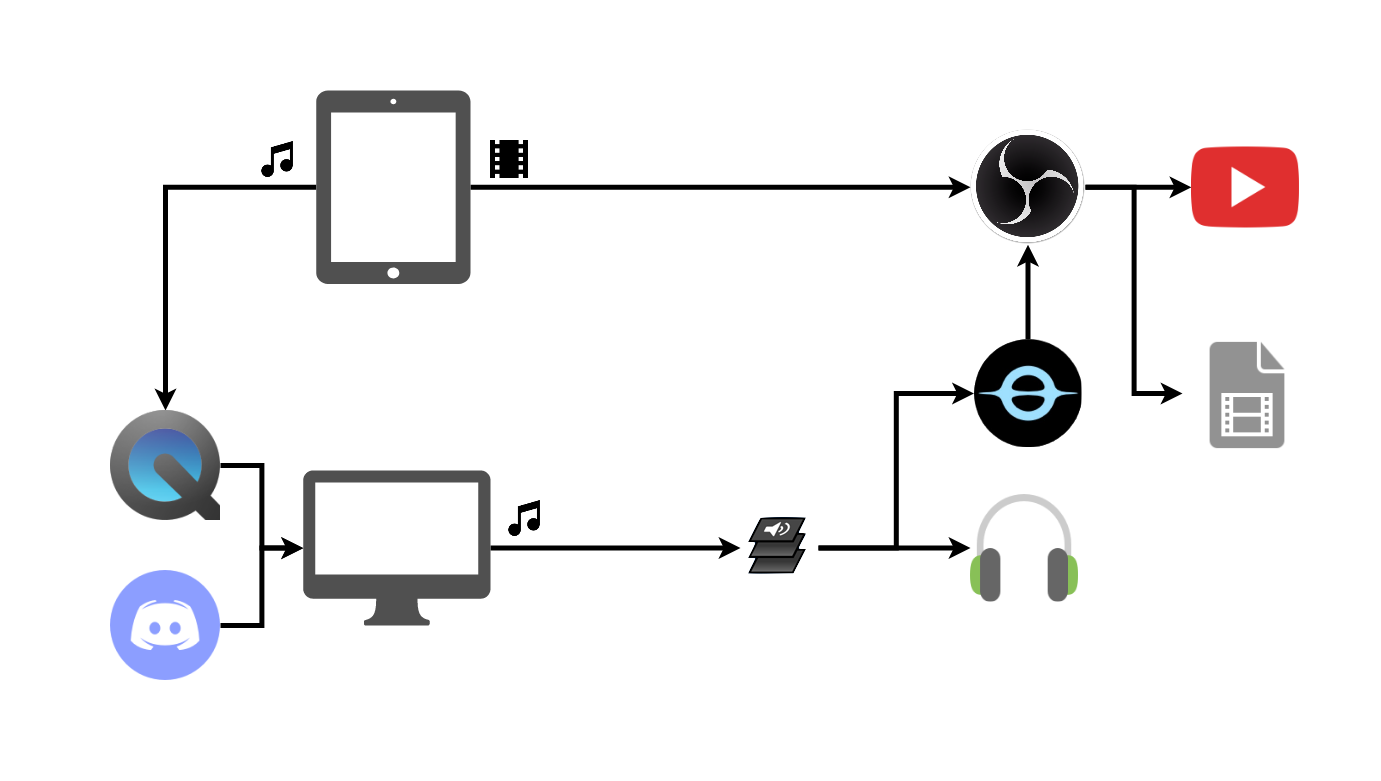
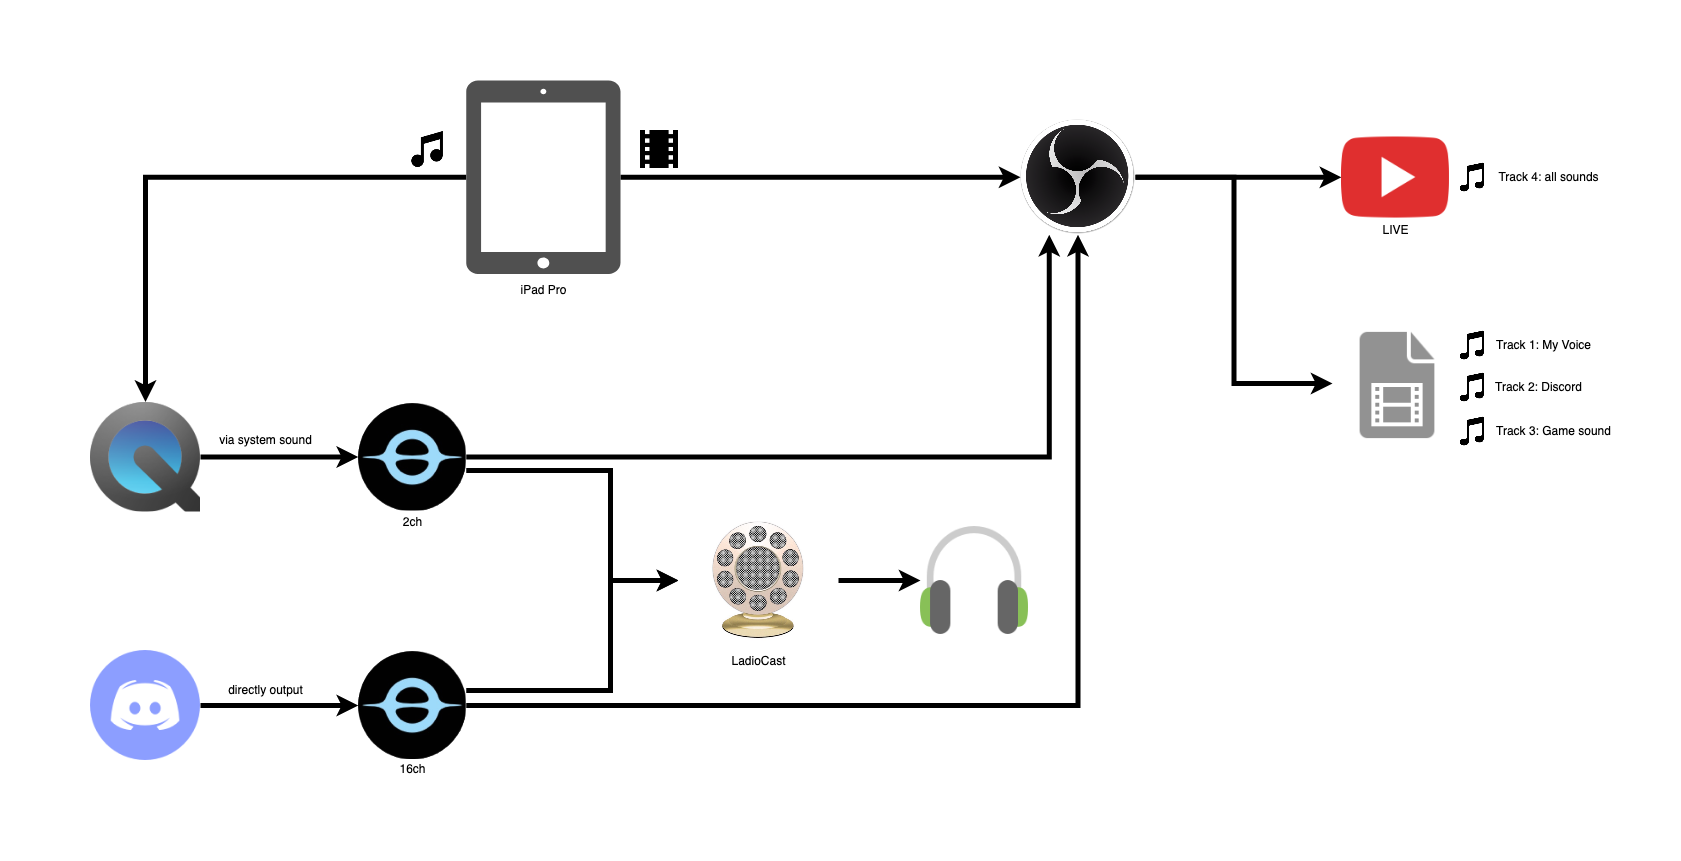
update

Changed region(s): [[0.0311, 0.0922, 0.9652, 0.8912]]

diff --git a/amongus/color.html b/amongus/color.html
@@ -21,21 +21,20 @@
      ul > li:nth-child(n) { display: none; }
 
      /* -n+(人数) とする */
-     ul > li:nth-child(-n+8) { display: list-item; }
+     ul > li:nth-child(-n+6) { display: list-item; }
     </style>
   </head>
   <body>
     <ul>
       <li><img class="color" src="https://raw.githubusercontent.com/nasa9084/broadcast-memo/master/amongus/red_bone.png"></li>
       <li><img class="color" src="https://raw.githubusercontent.com/nasa9084/broadcast-memo/master/amongus/lime_bone.png"></li>
-      <li><img class="color" src="https://raw.githubusercontent.com/nasa9084/broadcast-memo/master/amongus/pink_bone.png"></li>
+      <li><img class="color" src="https://raw.githubusercontent.com/nasa9084/broadcast-memo/master/amongus/black_bone.png"></li>
       <li><img class="color" src="https://raw.githubusercontent.com/nasa9084/broadcast-memo/master/amongus/brown_bone.png"></li>
       <li><img class="color" src="https://raw.githubusercontent.com/nasa9084/broadcast-memo/master/amongus/purple_bone.png"></li>
-      <li><img class="color" src="https://raw.githubusercontent.com/nasa9084/broadcast-memo/master/amongus/black_bone.png"></li>
+      <li><img class="color" src="https://raw.githubusercontent.com/nasa9084/broadcast-memo/master/amongus/white_bone.png"></li>
       <li><img class="color" src="https://raw.githubusercontent.com/nasa9084/broadcast-memo/master/amongus/white_bone.png"></li>
       <li><img class="color" src="https://raw.githubusercontent.com/nasa9084/broadcast-memo/master/amongus/cyan_bone.png"></li>
-      <li><img class="color" src="https://raw.githubusercontent.com/nasa9084/broadcast-memo/master/amongus/white_bone.png"></li>
-      <li><img class="color" src="https://raw.githubusercontent.com/nasa9084/broadcast-memo/master/amongus/cyan_bone.png"></li>
+      <li><img class="color" src="https://raw.githubusercontent.com/nasa9084/broadcast-memo/master/amongus/orange_bone.png"></li>
     </ul>
   </body>
 </html>

diff --git a/README.md b/README.md
@@ -6,16 +6,14 @@
   ```
 - Blackhole
   ```
-  $ brew install --cask blackhole-16ch
+  $ brew install --cask blackhole-16ch blackhole-2ch
+  ```
+- LadioCast
+  ```
+  $ mas install 411213048
   ```
 
 # Setup
-
-## Audio MIDI設定
-
-- 複数出力装置を作成
-  - 実際に音声を出力したい機器(ヘッドホンやスピーカー)とBlackHole 16chにチェックを入れる
-  - マスター装置を実際に音声を出力したい機器に設定する
 
 ## OBS
 
@@ -27,5 +25,8 @@
 
 ![全体像](img/arch.png)
 
-- 音声出力先は複数出力装置を選択
+- macの音声出力先はblackhole-2chを選択
+- Discordの音声出力先はblackhole-16chを選択
+- LadioCastの入力1/入力2にBlackhole-2ch/Blackhole-16chをそれぞれ設定
+- 出力メインにヘッドホンを指定し、入力1/入力2をメインに出力するようにする
 - QuickTime Playerを起動し、新規オーディオ収録、入力をiPadにする
